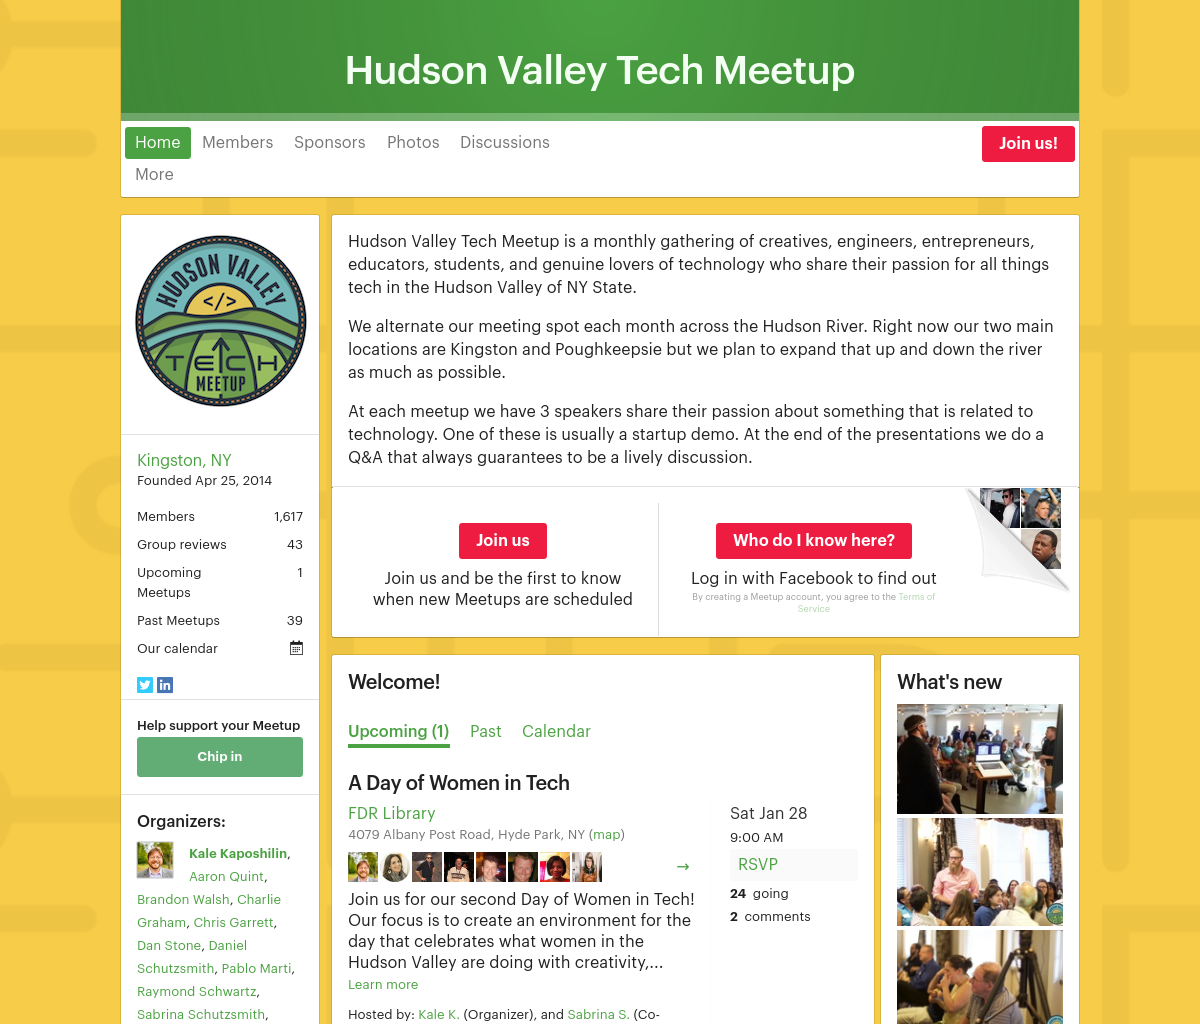
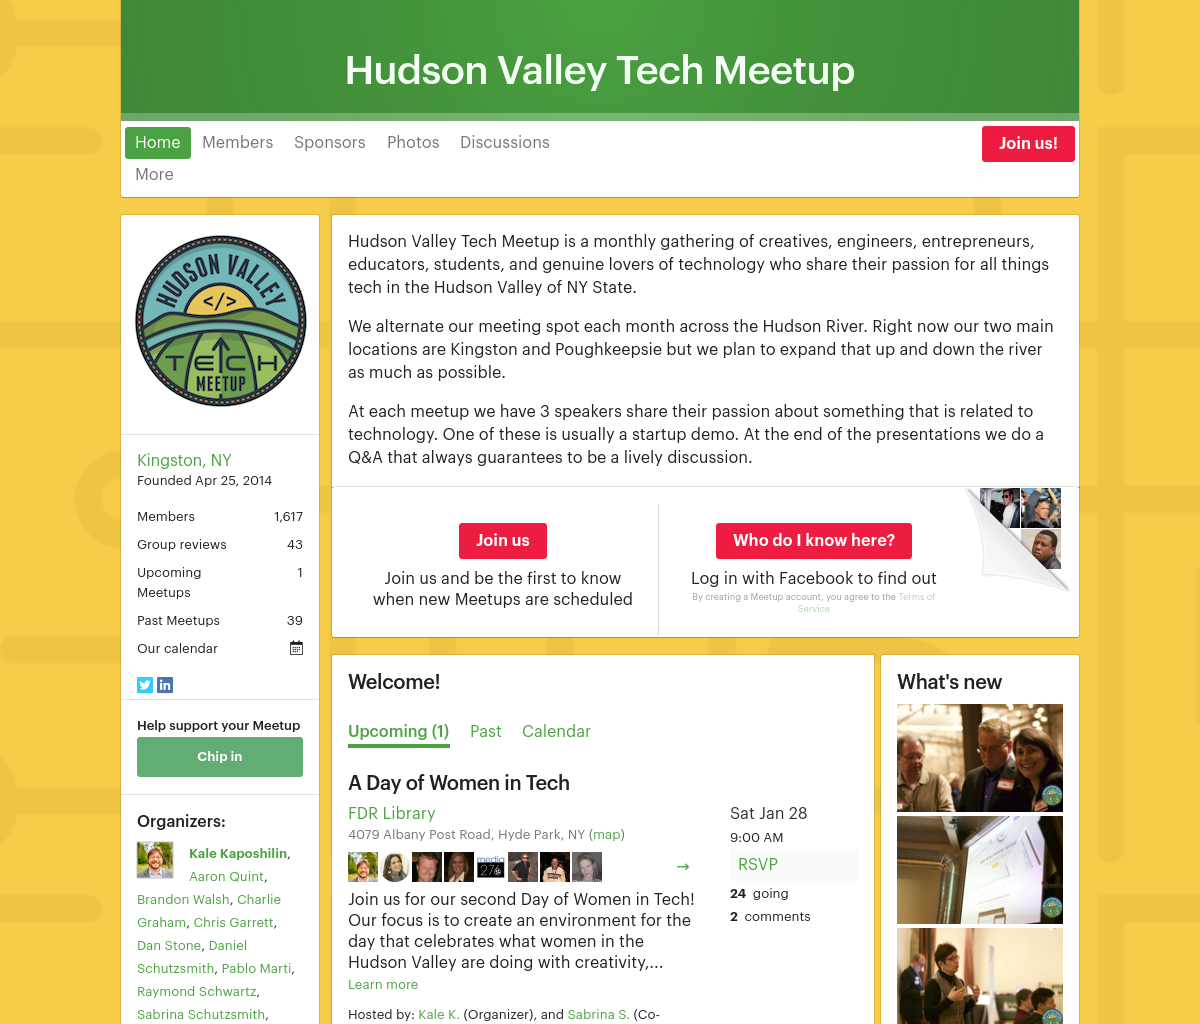
update images

Changed region(s): [[0.74, 0.6875, 0.8942, 1.0], [0.3392, 0.8125, 0.5242, 0.875]]

diff --git a/phantom/meetup.js b/phantom/meetup.js
@@ -5,8 +5,8 @@ Capture meetup site to a file
 */
 
 var page = require('webpage').create();
-page.viewportSize = { width: 1200, height: 1024 };
-page.clipRect = { top: 90, left: 0, width: 1200, height: 1024 };
+page.viewportSize = { width: 1800, height: 1024 };
+page.clipRect = { top: 290, left: 300, width: 1200, height: 1024 };
 page.open('http://www.meetup.com/mhvlug/', function() {
   page.render('images/meetup.png');
   phantom.exit();
